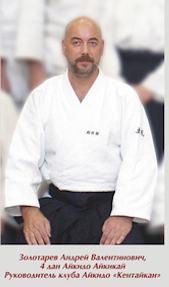
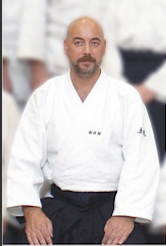
a+z 2

diff --git a/pages/arakawa.html b/pages/arakawa.html
@@ -9,7 +9,6 @@
 </head>
 
 <body>
-
     <header class="site-header">
       <a class="logo-link" href="../">
         <img src="../assets/logo.jpg" alt="КенТайКан">
@@ -26,42 +25,37 @@
     <main class="container">
     <article class="slide">
         <h1 class="h1">Аракава Ёсуке</h1>
-<section class="kanji-section">
-    <div class="kanji-box">
-      <h3 class="kanji-title">Кратко</h3>
-      <p>
-Аракава Ёсукэ - сихан, 
-    <ul>
-<li>7 дан Айкидо Айкикай
-<li>Президент Клуба "Юбикай Айкидо".
-<li>Руководитель Клуба Айкидо в спортивном клубе муниципалитета г. Токио. 
-<li>Член Правления спортивного клуба муниципалитета г. Токио.
-<li>Полномочный секретарь совета Центра боевых искусств "Будокан".                                   
-<li>Заместитель Председателя Федерации Айкидо г. Токио.
-<li>Вице-президент Объединений Айкидо Университетов Японии. 
-        </ul>
+        <section class="kanji-section">
+            <div class="kanji-box">
+                <h3 class="kanji-title">Кратко</h3>
+                <ul>
+                <li>7 дан Айкидо Айкикай
+                <li>Президент Клуба "Юбикай Айкидо".
+                <li>Руководитель Клуба Айкидо в спортивном клубе муниципалитета г. Токио. 
+                <li>Член Правления спортивного клуба муниципалитета г. Токио.
+                <li>Полномочный секретарь совета Центра боевых искусств "Будокан".                                   
+                <li>Заместитель Председателя Федерации Айкидо г. Токио.
+                <li>Вице-президент Объединений Айкидо Университетов Японии. 
+                </ul>
       
-      <p>Сэнсэй уделяя особое внимание внимание чистоте техники, естественному перемещению корпуса и работе центра.</p>
-    </div>
+                <p>Сэнсэй уделяя особое внимание внимание чистоте техники, естественному перемещению корпуса и работе центра</p>
+            </div>
 
-    <figure class="kanji-box" style="text-align:center">
-      <!-- При наличии замените на свой файл -->
-      <img src="../assets/A1.png" alt="Аракава Ёсуке" style="max-width:100%; border-radius:12px;">
-      <figcaption class="muted" style="margin-top:8px">Аракава Ёсуке, 7 дан Айкикай, школа Юбикай</figcaption>
-    </figure>
-  </section>        
+            <figure class="kanji-box" style="text-align:center">
+              <!-- При наличии замените на свой файл -->
+              <img src="../assets/A1.png" alt="Аракава Ёсуке" style="max-width:100%; border-radius:12px;">
+              <figcaption class="muted" style="margin-top:8px">Аракава Ёсуке, 7 дан Айкикай, школа Юбикай</figcaption>
+            </figure>
+        </section>        
         
         <div class="card">
-<p>	 
-
-    <ul>
-
-<li>	Родился 2 января 1940 года в Токио. 
-<li>Закончил физико-математический факультет Японского Университета. Работал в отделе строительства столичного департамента, по возрасту вышел в отставку. 
-<li>Вступил в Айкикай в 1959 году. 
-<li>Во время учебы в университете тренировался под руководством Арикава-сихана (9 дан, сихан Хомбу Додзё). 
- <li>После окончания университета тренировался в Хомбу Додзё под руководством Ямагучи-сихана (9 дан).
-  </ul>
+            <ul>
+            <li>Родился 2 января 1940 года в Токио. 
+            <li>Закончил физико-математический факультет Японского Университета. Работал в отделе строительства столичного департамента, по возрасту вышел в отставку. 
+            <li>Вступил в Айкикай в 1959 году. 
+            <li>Во время учебы в университете тренировался под руководством Арикава-сихана (9 дан, сихан Хомбу Додзё). 
+            <li>После окончания университета тренировался в Хомбу Додзё под руководством Ямагучи-сихана (9 дан).
+            </ul>
 
  
 
@@ -83,7 +77,7 @@
 <li>Март 2000	Исполнительный директор Ассоциации  международных молодежных обменов при премьер-министре Японии
   </ul>
 
-
+<p>
 Общество "Юбикай Айкидо" основано в 1994 году сиханом Ёсукэ Аракавой, обладателем 7-го Дана айкидо, на базе спортивного центра в районе Минато (г.Токио).Вначале общество называлось Ю-БИ (значение иероглифов — "быть, обладать"), но так как это выглядело несколько церемонно, название стали писать хираганой. В китайском трактате есть изречение: "Обладающий (подготовленный) не знает печали. Просвещенный вооружен, вооруженный — просвещен", поэтому всегда молились, чтобы обучение продвигалось по обоим этим направлениям.
 
 Название общества имеет смысл "Быть готовым", "Находиться в постоянной готовности". Символ общества — композиция квадрата, треугольника и круга — отражает принципы айкидо: вхождение по треугольнику, ведение по кругу, удерживание по квадрату. О-Сэнсэй объяснял айкидо этими тремя магическими фигурами, отражающими степень мастерства. Если все это соединено в одно целое и циркулирует вместе с ки, происходит полное очищение. Это и есть айкидо.
@@ -91,6 +85,7 @@
  В 2000-е общество "Юбикай" имело 4 отделения в Японии и отделение в России.
 </p>
         </div>
+  
   <h2>Галерея</h2>
   <section class="gallery-grid" id="gallery-arakawa">
     <noscript>Добавьте файлы в папку assets с именами, начинающимися на A (например, A1.jpg, A02.webp).</noscript>

diff --git a/pages/founder.html b/pages/founder.html
@@ -24,17 +24,47 @@
   
     <main class="container">
     <article class="slide">
-      <h1 class="h1">О школе Кен Тай Кан</h1>
-      <p>Клуб айкидо Айкикай «Кен Тай Кан» основан в 2008 году в Москве Андреем Золотарёвым.</p>
+    
+        <h1 class="h1">Аракава Ёсуке</h1>
+        <section class="kanji-section">
+            <div class="kanji-box">
+                <h3 class="kanji-title">Кратко</h3>
+                <ul>
+                <li>7 дан Айкидо Айкикай
+                <li>Президент Клуба "Юбикай Айкидо".
+                <li>Руководитель Клуба Айкидо в спортивном клубе муниципалитета г. Токио. 
+                <li>Член Правления спортивного клуба муниципалитета г. Токио.
+                <li>Полномочный секретарь совета Центра боевых искусств "Будокан".                                   
+                <li>Заместитель Председателя Федерации Айкидо г. Токио.
+                <li>Вице-президент Объединений Айкидо Университетов Японии. 
+                </ul>
+      
+                <p>Сэнсэй уделяя особое внимание внимание чистоте техники, естественному перемещению корпуса и работе центра</p>
+            </div>
 
-      <h2>Хронология</h2>
+            <figure class="kanji-box" style="text-align:center">
+              <img src="../assets/Z1.jpg" alt="Золотарёв Андрей" style="max-width:100%; border-radius:12px;">
+              <figcaption class="muted" style="margin-top:8px">Золотарёв Андрей — основатель «Кен Тай Кан»</figcaption>
+            </figure>
+        </section>        
+
+        <ul>
+        <li>Родился 26 июля 1960 года в Москве. 
+        <li>1985 Закончил Московский институт нефти и газа им.И.М.Губкина, специализация АСУ
+        <li>2001 Защитил кандидатскую диссертацию по администативному праву
+        <li>Занимал реководящие должности в МПР РФ и Правительстве Пермского края
+        <li>Работал в руководящих должностях крупных компаний (Лукойл,Русал,Норникель,РЖД)
+        <li>Вступил в Айкикай в 1994 году. 
+        <li>1988  Первые занятия айкидо проходил в группе Егорова Н.Н.(6дан айкидо Айкикай) после прочтения брошюры о биографии основателя школы Морихея Уесибы и основах его учения. 
+         В том же году перешел в Московский айки-клуб под руководством Матвеева В.А.(6 дан Айкидо Айкикай), в котором прозанимался более 10 лет и сдал на 1 дан Сейки-сенсею(7 дан Айкидо Айкикай, сенсей Хомбу Додзё), по рекомендации В.А.Матвеева. Являлся одним из ведущих учеников в клубе.
+        </ul>
+     
+     
+      <h1 class="h1">О школе Кен Тай Кан</h1>
+
+      <h2>Вехи</h2>
       <div class="timeline">
        
- <div class="ti"><span class="year">1988</span>
- Первые занятия айкидо проходил в группе Егорова Н.Н. в 1988 году после прочтения брошюры о биографии основателя школы Морихея Уесибы и основах его учения. 
- 
- <div class="ti"><span class="year">1988</span>
- В том же году перешел в Московский айки-клуб под руководством Матвеева В.А.(6 дан Айкидо Айкикай), в котором прозанимался более 10 лет и сдал на 1 дан Сейки-сенсею(7 дан Айкидо Айкикай, сенсей Хомбу Додзё), по рекомендации В.А.Матвеева. Являлся одним из ведущих учеников в клубе.
  
  <div class="ti"><span class="year">1997</span>
  Под руководством В.А.Матвеева в течение нескольких лет также занимался такими видами искусств как айкикен, дзе-до, иай-до (1 кю в 1997 году).
@@ -130,6 +160,54 @@
   </main>
   
   <footer class="foot">© Кен Тай Кан, 2008–2025</footer>
+  
+  <script>
+    (function buildGallery(prefix, containerId) {
+      const exts = ['avif', 'webp', 'jpg', 'jpeg', 'png'];
+      const variants = [];
+      // Сгенерируем разумный набор базовых имён: Z1..Z8, Z01..Z08
+      for (let i = 1; i <= 8; i++) {
+        variants.push(prefix + i);
+        variants.push(prefix + String(i).padStart(2, '0'));
+      }
+      const container = document.getElementById(containerId);
+      const basePath = '../assets/';
+      const used = new Set();
+
+      function tryFirstAvailable(base) {
+        let resolved = false;
+        exts.reduce((p, ext) => {
+          return p.then(() => {
+            if (resolved) return;
+            return new Promise((resolve) => {
+              const img = new Image();
+              img.decoding = 'async';
+              img.loading = 'lazy';
+              img.fetchPriority = 'low';
+              img.src = basePath + base + '.' + ext;
+              img.onload = () => {
+                if (!resolved && !used.has(base)) {
+                  resolved = true;
+                  used.add(base);
+                  const fig = document.createElement('figure');
+                  const tag = document.createElement('img');
+                  tag.src = img.src;
+                  tag.alt = base;
+                  fig.appendChild(tag);
+                  container.appendChild(fig);
+                }
+                resolve();
+              };
+              img.onerror = () => resolve();
+            });
+          });
+        }, Promise.resolve());
+      }
+
+      variants.forEach(tryFirstAvailable);
+    })('Z', 'gallery-founder');
+  </script>  
+  
   <script src="../assets/script.js"></script>
 </body>
 
